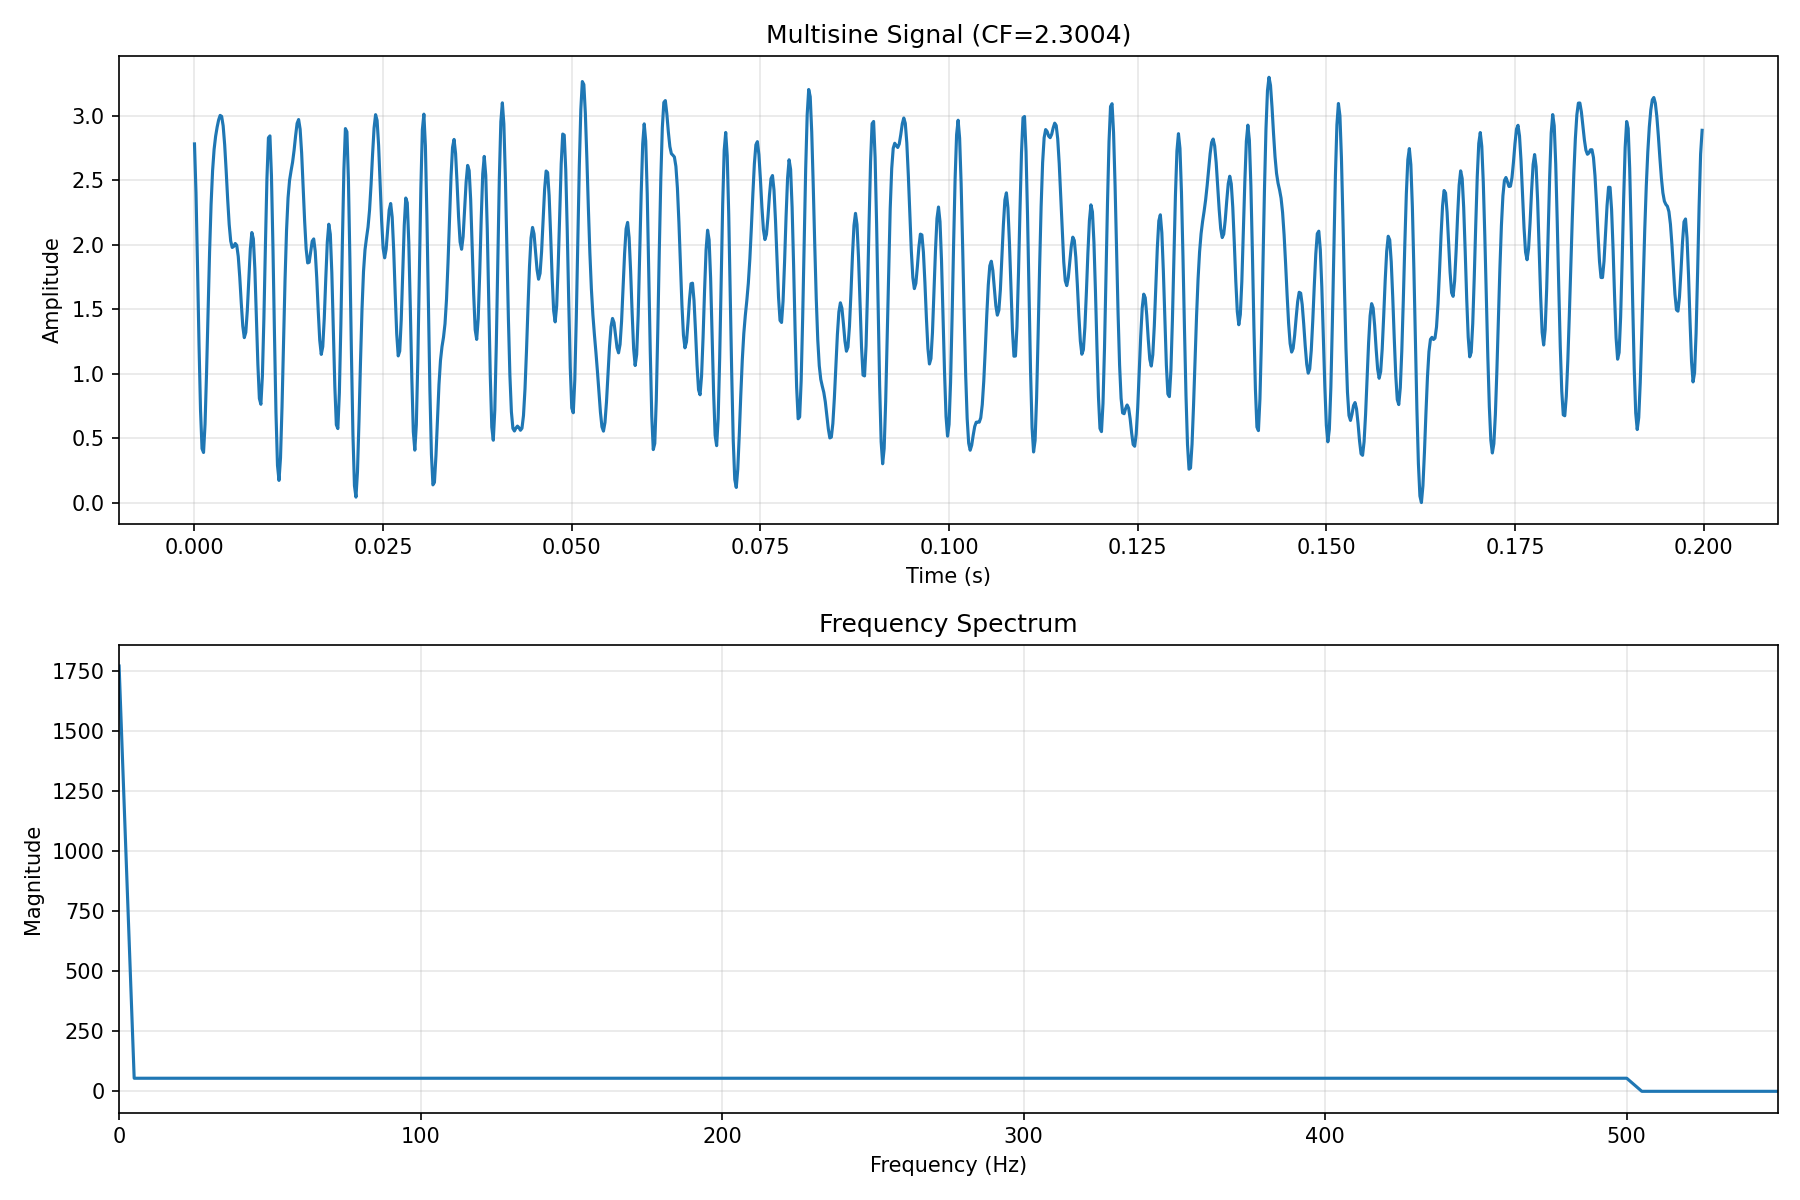
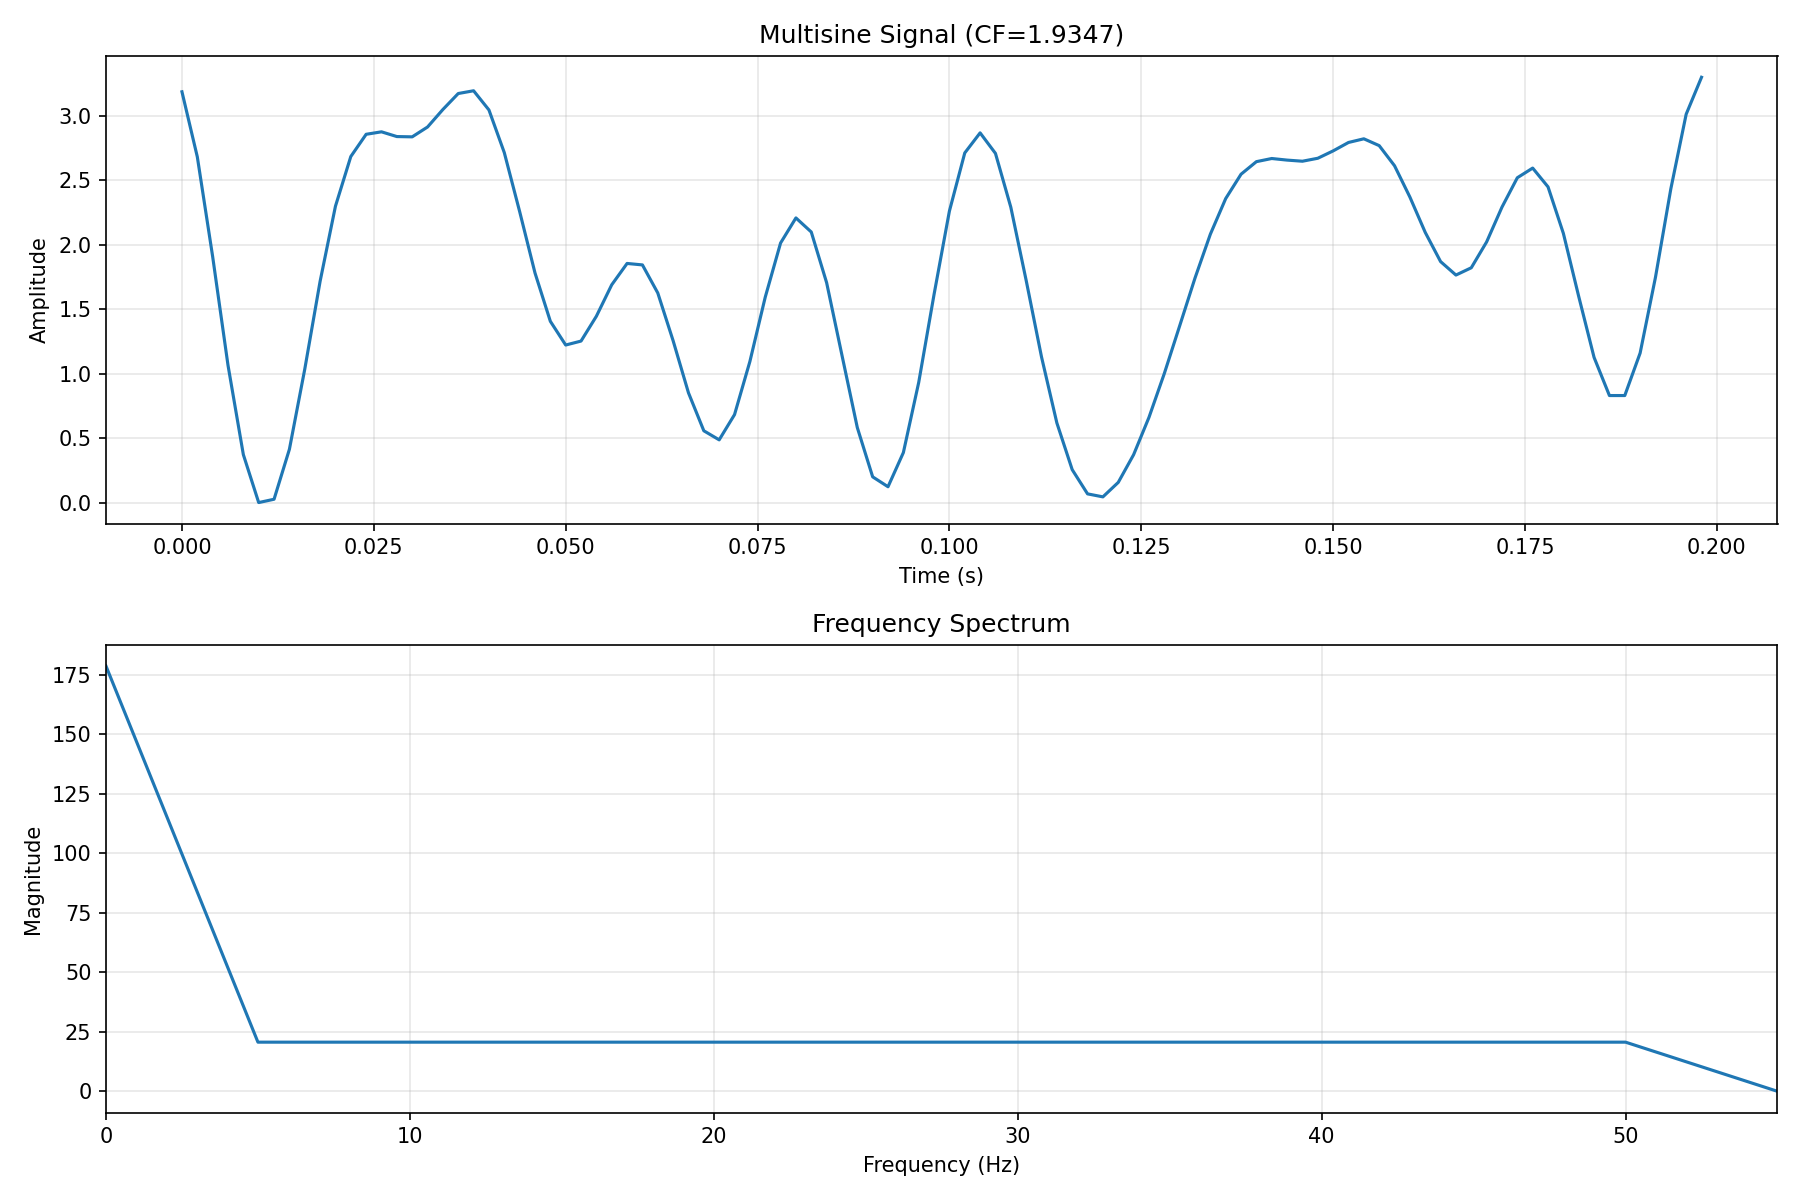
initial sequential program (arduino goes into error state)

diff --git a/src/python/main_sequential.py b/src/python/main_sequential.py
@@ -56,8 +56,24 @@ TIME_SERIES_VARIABLES = [
     'odrive_Controller_vel_integrator_torque',
 ]
 
+# ============================================================================
+# Configuration: Bode Plot Settings
+# ============================================================================
+# 
 # Bode plot configurations: List of 6 (input, output) pairs
+# Each pair defines one Bode plot showing the transfer function from input to output
 # Format: (input_variable_name, output_variable_name)
+# 
+# Available variables for inputs/outputs:
+#   - output_voltage: Voltage output (multisine) as recorded by Arduino
+#   - A0, A1, A2, A3, A4, A5: Analog input voltages
+#   - acc0, acc1, acc2, acc3, acc4, acc5: Accelerations (calculated)
+#   - x, y, theta_x, theta_y: Geometric calculations
+#   - ODrive variables (if ODrive is connected): odrive_* variables
+#
+# To modify Bode plots, edit the list below:
+# ============================================================================
+
 BODE_PLOT_CONFIGS = [
     ('output_voltage', 'theta_x'),
     ('output_voltage', 'theta_y'),
@@ -72,7 +88,6 @@ BODE_PLOT_CONFIGS = [
 # ============================================================================
 
 ARDUINO_PORT = 'COM10'  # Hard-coded Arduino port
-ODRIVE_PORT = 'COM12'   # Default ODrive port (if using serial, otherwise USB)
 
 # ============================================================================
 # Geometric calculation constants
@@ -468,20 +483,35 @@ class StopAcquisitionDialog(QDialog):
 # Main Sequential Flow
 # ============================================================================
 
-def process_data(data_array, sample_rate, csv_voltage=None, csv_time=None, odrive_data=None):
-    """Process acquired data including geometric calculations."""
+def process_data(data_array, sample_rate, odrive_data=None):
+    """Process acquired data including geometric calculations.
+    
+    Args:
+        data_array: numpy array with shape (num_samples, 7)
+                   Columns: [A0, A1, A2, A3, A4, A5, output_voltage]
+        sample_rate: Sample rate in Hz
+        odrive_data: Optional dict with ODrive variables (if ODrive connected)
+    """
     num_samples = data_array.shape[0]
+    num_channels = data_array.shape[1]
+    
+    # Verify we have 7 channels (6 inputs + 1 output voltage)
+    if num_channels != 7:
+        raise ValueError(f"Expected 7 channels (6 inputs + output voltage), got {num_channels}")
     
     # Create time vector
     t = np.arange(num_samples) / sample_rate
     
-    # Extract input channels (A0-A5)
+    # Extract input channels (A0-A5) - indices 0-5
     A0 = data_array[:, 0]
     A1 = data_array[:, 1]
     A2 = data_array[:, 2]
     A3 = data_array[:, 3]
     A4 = data_array[:, 4]
     A5 = data_array[:, 5]
+    
+    # Extract output voltage - index 6 (recorded by Arduino during acquisition)
+    output_voltage = data_array[:, 6]
     
     # Calculate accelerations (acc0-acc5) - these are the raw analog inputs
     # In this system, the analog inputs ARE the accelerometer readings
@@ -501,30 +531,6 @@ def process_data(data_array, sample_rate, csv_voltage=None, csv_time=None, odriv
          theta_y * (L1 + L2 + L3 / 2) - A5) * R_A
     y = ((A0 + A1 + A2 + A3) * np.sin(ALPHA) / 4 + 
          theta_x * (L1 + L2 + L3 / 2) - A4) * R_A
-    
-    # Prepare output voltage data
-    # If CSV voltage is provided and synchronized, use it
-    # Otherwise, create placeholder (will need Arduino firmware modification)
-    if csv_voltage is not None and csv_time is not None:
-        # Interpolate CSV voltage to match acquisition time
-        from scipy.interpolate import interp1d
-        if len(csv_voltage) > 1:
-            # Use periodic interpolation for cyclic signal
-            # Extend time to cover full acquisition
-            csv_duration = csv_time[-1] - csv_time[0] + (csv_time[1] - csv_time[0])
-            num_cycles = int(np.ceil(t[-1] / csv_duration)) + 1
-            extended_time = np.concatenate([csv_time + i * csv_duration for i in range(num_cycles)])
-            extended_voltage = np.tile(csv_voltage, num_cycles)
-            
-            # Interpolate
-            f = interp1d(extended_time, extended_voltage, kind='linear', 
-                        bounds_error=False, fill_value='extrapolate')
-            output_voltage = f(t)
-        else:
-            output_voltage = np.zeros_like(t)
-    else:
-        # Placeholder - TODO: Get from Arduino during acquisition
-        output_voltage = np.zeros_like(t)
     
     # Store processed data
     data = {
@@ -700,17 +706,14 @@ def main():
         
         print(f"CSV file selected: {os.path.basename(csv_path)}")
         
-        # Parse CSV file to get voltage values and timing
-        csv_voltage = None
-        csv_time = None
+        # Parse CSV file to extract sample rate (needed for ODrive configuration)
+        # Note: Voltage values will be read from Arduino acquisition data, not from CSV
+        sample_rate = None
         try:
             with open(csv_path, 'r') as f:
                 lines = f.readlines()
             
-            voltage_values = []
             time_values = []
-            sample_period = None
-            sample_rate = None
             
             for line in lines:
                 line = line.strip()
@@ -722,7 +725,6 @@ def main():
                             fs_value = float(fs_part)
                             if fs_value > 0:
                                 sample_rate = fs_value
-                                sample_period = 1.0 / fs_value
                         except (ValueError, IndexError):
                             pass
                     continue
@@ -730,32 +732,27 @@ def main():
                 if line.lower() == 'time_s,signal':
                     continue
                 
-                if ',' in line:
+                # Extract time values to calculate sample rate if not in metadata
+                if ',' in line and sample_rate is None:
                     parts = line.split(',')
                     if len(parts) >= 2:
                         try:
                             time_val = float(parts[0].strip())
-                            voltage = float(parts[1].strip())
-                            if 0 <= voltage <= 3.3:
-                                voltage_values.append(voltage)
-                                time_values.append(time_val)
+                            time_values.append(time_val)
+                            # Calculate sample rate from first two time values
+                            if len(time_values) == 2:
+                                sample_period = time_values[1] - time_values[0]
+                                if sample_period > 0:
+                                    sample_rate = 1.0 / sample_period
+                                    break  # Got what we need
                         except ValueError:
                             continue
-            
-            if len(voltage_values) > 0:
-                csv_voltage = np.array(voltage_values)
-                if len(time_values) > 0:
-                    csv_time = np.array(time_values)
-                    if sample_period is None and len(time_values) > 1:
-                        sample_period = time_values[1] - time_values[0]
-                        sample_rate = 1.0 / sample_period
-                else:
-                    # Generate time array
-                    if sample_period is None:
-                        sample_period = 0.001  # Default 1ms
-                    csv_time = np.arange(len(voltage_values)) * sample_period
         except Exception as e:
             print(f"Warning: Could not parse CSV file: {e}")
+        
+        if sample_rate is None:
+            print("Warning: Could not determine sample rate from CSV. Using default 1000 Hz.")
+            sample_rate = 1000.0
         
         # Upload CSV to Arduino
         print("Uploading CSV to Arduino...")
@@ -956,8 +953,6 @@ def main():
         processed_data = process_data(
             data_result['samples'],
             data_result['sample_rate'],
-            csv_voltage=csv_voltage,
-            csv_time=csv_time,
             odrive_data=odrive_data
         )
         

diff --git a/src/python/multisine.py b/src/python/multisine.py
@@ -236,8 +236,8 @@ def main():
     """
     # Example parameters
     fmin_desired = 5.0  # Hz
-    fmax_desired = 500.0  # Hz
-    fs = 5000.0  # Hz
+    fmax_desired = 50.0  # Hz
+    fs = 500.0  # Hz
     df_des = 1.0  # Hz
     
     print("Multisine Generator Example")
@@ -273,7 +273,7 @@ def main():
     print()
     
     # Export to CSV
-    filename = "multisine_optimized.csv"
+    filename = "multisine_optimized_500Hz.csv"
     signal = optimizer.export_multisine(filename, phases)
     print(f"Multisine exported to {filename}")
     
